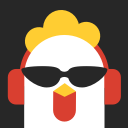
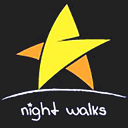
更新logo

diff --git a/src/components/player.vue b/src/components/player.vue
@@ -103,7 +103,7 @@ import ProgressBar from 'components/progress-bar'
 import ProgressCircle from 'components/progress-circle'
 import animations from 'create-keyframe-animation'
 import { prefixStyle } from 'common/js/dom'
-import { palyMode } from 'common/js/config'
+import { playMode } from 'common/js/config'
 import { shuffle } from 'common/js/util'
 
 const transform = prefixStyle('transform')
@@ -125,7 +125,7 @@ export default {
       return this.playing ? 'icon-pause' : 'icon-play'
     },
     iconMode () {
-      return this.mode === palyMode.sequence ? 'icon-sequence' : this.mode === palyMode.loop ? 'icon-loop' : 'icon-random'
+      return this.mode === playMode.sequence ? 'icon-sequence' : this.mode === playMode.loop ? 'icon-loop' : 'icon-random'
     },
     miniIcon () {
       return this.playing ? 'icon-pause-mini' : 'icon-play-mini'
@@ -194,7 +194,7 @@ export default {
       this.setPlayingState(!this.playing)
     },
     end () {
-      if (this.mode === palyMode.loop) {
+      if (this.mode === playMode.loop) {
         this.loop()
       } else {
         this.next()
@@ -257,7 +257,7 @@ export default {
       const mode = (this.mode + 1) % 3
       this.setPlayMode(mode)
       let list = null
-      if (mode === palyMode.random) {
+      if (mode === playMode.random) {
         list = shuffle(this.sequenceList)
       } else {
         list = this.sequenceList

diff --git a/src/store/actions.js b/src/store/actions.js
@@ -1,9 +1,33 @@
 import * as types from './mutation-types'
+import { playMode } from 'common/js/config'
+import { shuffle } from '../common/js/util'
+
+function findIndex (list, song) {
+  return list.findIndex((item) => {
+    return item.id === song.id
+  })
+}
 
 export const selectPlay = function ({ commit, state }, { list, index }) {
   commit(types.SET_SEQUENCE_LIST, list)
-  commit(types.SET_PLAYLIST, list)
+  if (state.mode === playMode.mode) {
+    const randomList = shuffle(list)
+    commit(types.SET_PLAYLIST, randomList)
+    index = findIndex(randomList, list[index])
+  } else {
+    commit(types.SET_PLAYLIST, list)
+  }
   commit(types.SET_CURRENT_INDEX, index)
+  commit(types.SET_PLAYING_STATE, true)
+  commit(types.SET_FULL_SCREEN, true)
+}
+
+export const randomPlay = function ({ commit }, { list }) {
+  commit(types.SET_PLAY_MODE, playMode.random)
+  commit(types.SET_SEQUENCE_LIST, list)
+  const randomList = shuffle(list)
+  commit(types.SET_PLAYLIST, randomList)
+  commit(types.SET_CURRENT_INDEX, 0)
   commit(types.SET_PLAYING_STATE, true)
   commit(types.SET_FULL_SCREEN, true)
 }

diff --git a/src/components/music-list.vue b/src/components/music-list.vue
@@ -6,7 +6,7 @@
     <h1 class="title">{{title}}</h1>
     <div class="bg-image" ref="bgImage" :style="bgStyle">
       <div class="play-wrapper">
-        <div class="play" ref="playBtn" v-show="songs.length > 0">
+        <div class="play" @click="randomPlayClick" ref="playBtn" v-show="songs.length > 0">
           <i class="icon-play"></i>
           <span class="text">随机播放全部</span>
         </div>
@@ -91,8 +91,14 @@ export default {
         index
       })
     },
+    randomPlayClick () {
+      this.randomPlay({
+        list: this.songs
+      })
+    },
     ...mapActions([
-      'selectPlay'
+      'selectPlay',
+      'randomPlay'
     ])
   },
   watch: {

diff --git a/src/common/js/util.js b/src/common/js/util.js
@@ -3,11 +3,12 @@ function getRandomInt (min, max) {
 }
 
 export function shuffle (arr) {
-  for (let i = 0; i < arr.length; i++) {
+  let _arr = arr.slice()
+  for (let i = 0; i < _arr.length; i++) {
     let j = getRandomInt(0, i)
-    let t = arr[i]
-    arr[i] = arr[j]
-    arr[j] = t
+    let t = _arr[i]
+    _arr[i] = _arr[j]
+    _arr[j] = t
   }
-  return arr
+  return _arr
 }

diff --git a/src/store/state.js b/src/store/state.js
@@ -1,4 +1,4 @@
-import { palyMode } from 'common/js/config'
+import { playMode } from 'common/js/config'
 
 const state = {
   singer: {},
@@ -6,7 +6,7 @@ const state = {
   fullScreen: false,
   playList: [],
   sequenceList: [],
-  mode: palyMode.sequence,
+  mode: playMode.sequence,
   currentIndex: -1,
   disc: {}
 }

diff --git a/src/components/m-header/m-header.vue b/src/components/m-header/m-header.vue
@@ -1,7 +1,7 @@
 <template>
   <div class="m-header">
     <div class="icon"></div>
-    <h1 class="text">Chicken Music</h1>
+    <h1 class="text">STAR Music</h1>
   </div>
 </template>
 

diff --git a/src/common/js/config.js b/src/common/js/config.js
@@ -1,4 +1,4 @@
-export const palyMode = {
+export const playMode = {
   sequence: 0,
   loop: 1,
   random: 2
